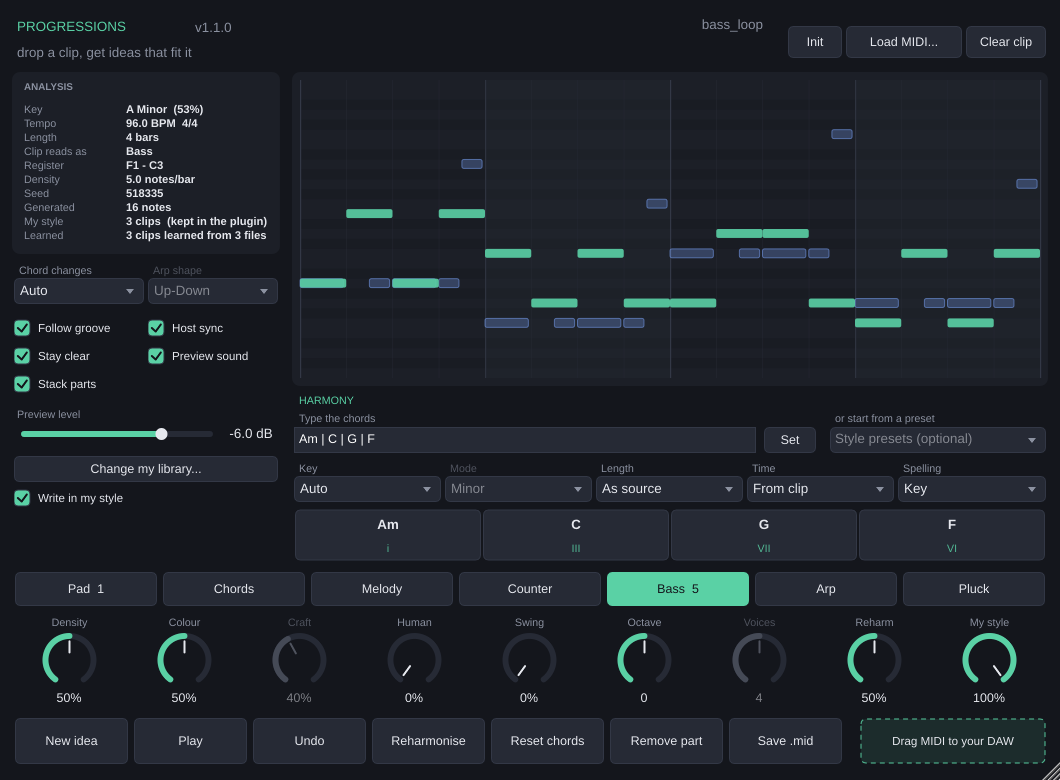
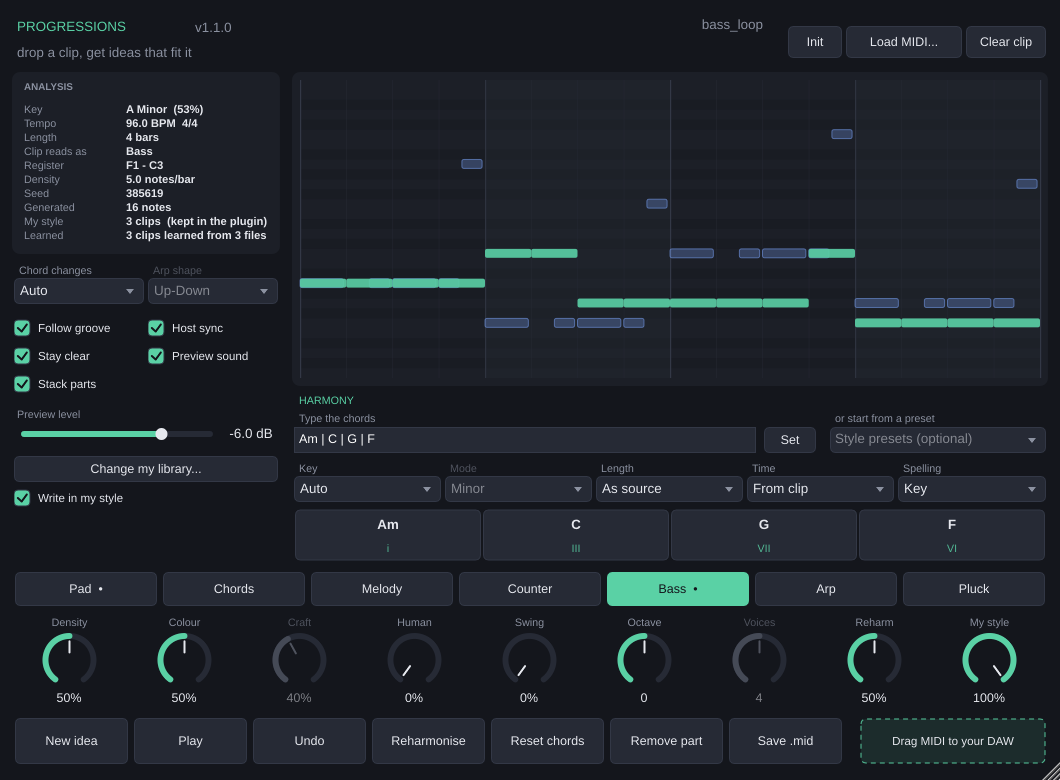
A dot instead of a channel number on the part tabs
The number was there to say where to point an instrument, and in Ableton
Live it can never mean anything - Live discards channel information when
routing from a plug-in. On the screen where this is used it was furniture.

The tab still has to say which parts are written and playing, and which
belong to a pad that is gone, so it says it with a dot and an asterisk.
The channel stays in the tooltip for whoever is on a host that keeps it.

Claude-Session: https://claude.ai/code/session_01TdYkkwWqjXnyGki7XjySvK

diff --git a/plugin/Source/PluginEditor.cpp b/plugin/Source/PluginEditor.cpp
@@ -436,22 +436,29 @@ void ProgressionsEditor::refreshPartButtons()
     for (int i = 0; i < partButtons.size(); ++i)
     {
         const bool live = processor.isPartLive(i);
+        const bool stale = processor.isPartStale(i);
+
+        // A dot for "this one is written and playing", an asterisk for "it was
+        // written over a pad that is no longer there". The MIDI channel used to
+        // be here too, but Ableton Live discards channel information when it
+        // routes from a plug-in, so for a Live user the number is a piece of
+        // furniture that never means anything. It stays in the tooltip, where
+        // whoever is on a host that honours channels can still find it.
+        // Built from the code point rather than a literal: a raw UTF-8 byte
+        // string reaches juce::String as Latin-1 and the dot arrives as mojibake.
+        static const juce::String bullet = juce::String::charToString(juce::juce_wchar(0x2022));
+
         auto text = kPartLabels[i];
         if (live)
-        {
-            // The channel is the whole point of stacking: it is what a host
-            // needs to send this part to its own instrument.
-            text += "  " + juce::String(processor.channelForPart(i));
-            if (processor.isPartStale(i))
-                text += "*";
-        }
+            text += "  " + bullet + (stale ? "*" : "");
         if (partButtons[i]->getButtonText() != text)
             partButtons[i]->setButtonText(text);
 
         partButtons[i]->setTooltip(live
-            ? "Written, playing on MIDI channel " + juce::String(processor.channelForPart(i))
-                  + (processor.isPartStale(i) ? " - written over a different pad than the one playing now"
-                                              : "")
+            ? juce::String("Written and playing")
+                  + (stale ? ", over a different pad than the one playing now" : "")
+                  + ".  MIDI channel " + juce::String(processor.channelForPart(i))
+                  + " - useful in a host that keeps channels; Live does not."
             : "Write a " + kPartLabels[i].toLowerCase() + " over the harmony");
     }
 }
